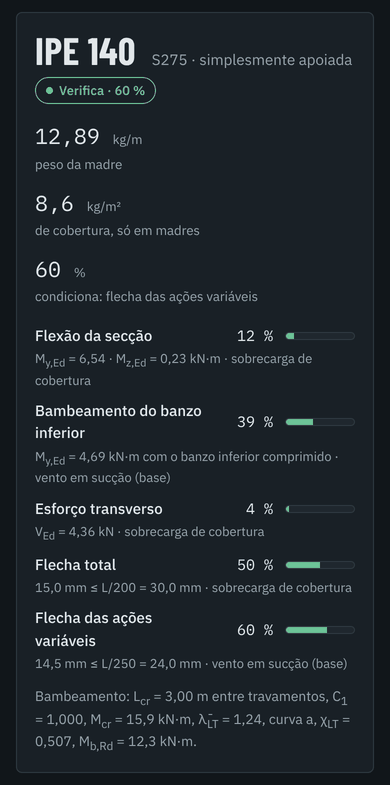
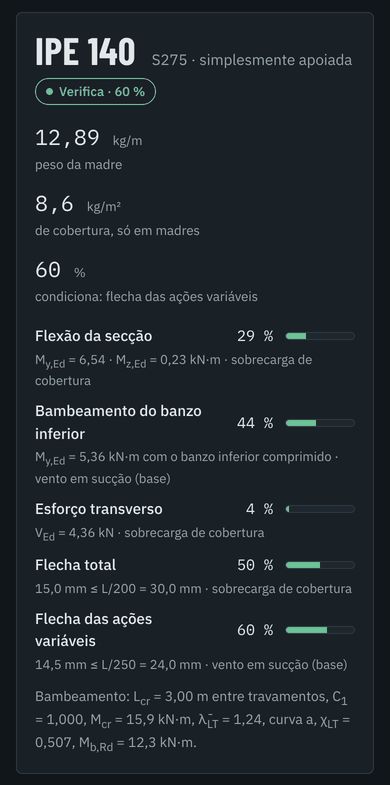
Madres: altura a meio vão em vez da inclinação
As duas alturas (no pilar e a meio vão) medem-se do pavimento à face
inferior da cobertura; a inclinação passa a ser calculada a partir delas
e z_e é a altura a meio vão. O corte mostra as madres por baixo da face
inferior do revestimento. Capturas do README atualizadas.

Claude-Session: https://claude.ai/code/session_01Rb9GC9iN3yz6VwPxYajBPZ

diff --git a/index.html b/index.html
@@ -428,11 +428,12 @@ h3.sub { margin-top: 18px; margin-bottom: 8px; }
             <span class="entrada"><input id="m-largura" name="largura" type="text" inputmode="decimal" min="1" step="0.1" value="20"><em>m</em></span></label>
           <label class="campo" for="m-comprimento"><span>Comprimento</span>
             <span class="entrada"><input id="m-comprimento" name="comprimento" type="text" inputmode="decimal" min="1" step="0.1" value="48"><em>m</em></span></label>
-          <label class="campo" for="m-beirado"><span>Altura do beirado</span>
-            <span class="entrada"><input id="m-beirado" name="beirado" type="text" inputmode="decimal" min="1" step="0.1" value="7"><em>m</em></span></label>
-          <label class="campo" for="m-alfa"><span>Inclinação</span>
-            <span class="entrada"><input id="m-alfa" name="alfa" type="text" inputmode="decimal" min="0" max="30" step="0.5" value="8"><em>°</em></span></label>
+          <label class="campo" for="m-beirado"><span>Altura no pilar</span>
+            <span class="entrada"><input id="m-beirado" name="beirado" type="text" inputmode="decimal" value="7"><em>m</em></span></label>
+          <label class="campo" for="m-meio"><span>Altura a meio vão</span>
+            <span class="entrada"><input id="m-meio" name="meio" type="text" inputmode="decimal" value="8.4"><em>m</em></span></label>
         </div>
+        <p class="nota" id="m-inclinacao"></p>
       </fieldset>
 
       <fieldset class="grupo">
@@ -515,7 +516,7 @@ h3.sub { margin-top: 18px; margin-bottom: 8px; }
       <label class="campo" for="m-aco" id="m-campo-aco"><span>Classe do aço (IPE)</span>
         <select id="m-aco" name="aco"></select></label>
 
-      <p class="nota nota-exemplo" id="m-nota-exemplo">Exemplo carregado: pavilhão de 20 × 48 m com painel sandwich.</p>
+      <p class="nota nota-exemplo" id="m-nota-exemplo">Exemplo carregado: pavilhão de 20 × 48 m, alturas de 7,0 m no pilar e 8,4 m a meio vão, com painel sandwich.</p>
     </form>
 
     <div class="resultado" id="resultado-madres" aria-live="polite"></div>
@@ -1705,7 +1706,7 @@ if (typeof module !== "undefined") module.exports = Madres;
 
   function ler() {
     return {
-      largura: num("largura"), comprimento: num("comprimento"), beirado: num("beirado"), alfa: num("alfa"),
+      largura: num("largura"), comprimento: num("comprimento"), beirado: num("beirado"), meio: num("meio"),
       L: num("vao"), s: num("espacamento"),
       tipo: form.elements.tipo.value,
       esquema: form.elements.esquema.value, tirantes: parseInt(form.elements.tirantes.value, 10),
@@ -1718,17 +1719,27 @@ if (typeof module !== "undefined") module.exports = Madres;
     };
   }
 
+  // Inclinação de cada água a partir das alturas no pilar e a meio vão (medidas do pavimento
+  // à face inferior da cobertura).
+  function inclinacao(d) {
+    if (!(d.largura > 0) || !(d.beirado > 0) || !(d.meio >= d.beirado)) return NaN;
+    return Math.atan((d.meio - d.beirado) / (d.largura / 2)) * 180 / Math.PI;
+  }
+
   function validar(d) {
     var erros = [];
     function pos(v, nome) { if (!(v > 0)) erros.push(nome + " tem de ser um número positivo."); }
-    pos(d.largura, "O vão do pórtico"); pos(d.comprimento, "O comprimento"); pos(d.beirado, "A altura do beirado");
+    pos(d.largura, "O vão do pórtico"); pos(d.comprimento, "O comprimento"); pos(d.beirado, "A altura no pilar");
+    pos(d.meio, "A altura a meio vão");
     pos(d.L, "O espaçamento entre pórticos"); pos(d.s, "O espaçamento entre madres");
     function entre(v, min, max, nome, un) { if (v > 0 && !(v >= min && v <= max)) erros.push(nome + " tem de estar entre " + fmt(min, min % 1 ? 1 : 0) + " e " + fmt(max, 0) + " " + un + "."); }
     entre(d.largura, 3, 100, "O vão do pórtico", "m"); entre(d.comprimento, 3, 500, "O comprimento", "m");
-    entre(d.beirado, 2, 40, "A altura do beirado", "m"); entre(d.L, 1, 20, "O espaçamento entre pórticos", "m");
+    entre(d.beirado, 2, 40, "A altura no pilar", "m"); entre(d.meio, 2, 60, "A altura a meio vão", "m");
+    entre(d.L, 1, 20, "O espaçamento entre pórticos", "m");
     entre(d.s, 0.3, 6, "O espaçamento entre madres", "m");
     if (d.L > 0 && d.comprimento > 0 && d.L > d.comprimento) erros.push("O espaçamento entre pórticos é maior do que o comprimento do pavilhão.");
-    if (!(d.alfa >= 0 && d.alfa <= 30)) erros.push("A inclinação tem de estar entre 0° e 30°.");
+    if (d.beirado > 0 && d.meio > 0 && d.meio < d.beirado) erros.push("A altura a meio vão não pode ser inferior à altura no pilar.");
+    if (d.alfa > 30) erros.push("A inclinação resultante (" + fmt(d.alfa, 1) + "°) é superior a 30°, o limite desta verificação.");
     if (!(d.gRev >= 0) || !(d.gInst >= 0) || !(d.qk >= 0)) erros.push("As cargas têm de ser números iguais ou superiores a zero.");
     if (!(d.altitude >= 0 && d.altitude <= 1500)) erros.push("A altitude tem de estar entre 0 e 1500 m (limite da NP EN 1991-1-3).");
     if (d.largura > 0 && d.s > d.largura / 2) erros.push("O espaçamento entre madres é maior do que a meia largura do pavilhão.");
@@ -1738,7 +1749,7 @@ if (typeof module !== "undefined") module.exports = Madres;
 
   function calcular(d) {
     var a = d.alfa * Math.PI / 180;
-    var hCumeeira = d.beirado + d.largura / 2 * Math.tan(a);
+    var hCumeeira = d.meio;
     var zonaVento = d.costa || d.orografia || d.altitude > 600 ? "B" : "A";
     var area = d.s * d.L;
     var vento = Acoes.vento(zonaVento, d.terreno, hCumeeira, d.alfa, d.posicao, area, [d.cpiMax, d.cpiMin]);
@@ -1840,14 +1851,15 @@ if (typeof module !== "undefined") module.exports = Madres;
     madres.forEach(function (m, i) {
       [[m * Math.cos(a), hb + m * Math.sin(a)], [W - m * Math.cos(a), hb + m * Math.sin(a)]].forEach(function (pt, lado2) {
         var ativa = lado2 === 0 && i === iMadre;
-        g += '<rect class="' + (ativa ? "esq-madre-sec-ativa" : "esq-madre-sec") + '" x="' + (pt[0] - lado) + '" y="' + (Y(pt[1]) - 2 * lado) + '" width="' + 2 * lado + '" height="' + 2 * lado + '"/>';
+        // A linha da cobertura é a face inferior do revestimento: as madres ficam por baixo dela.
+        g += '<rect class="' + (ativa ? "esq-madre-sec-ativa" : "esq-madre-sec") + '" x="' + (pt[0] - lado) + '" y="' + Y(pt[1]) + '" width="' + 2 * lado + '" height="' + 2 * lado + '"/>';
       });
     });
     // Cargas na madre analisada: gravidade para baixo, sucção para cima.
     var mx = madres[iMadre] * Math.cos(a), my = hb + madres[iMadre] * Math.sin(a);
     var comp = Math.max(hc * 0.22, fs * 2.5), cab = fs * 0.5;
-    g += seta(mx - fs * 0.6, Y(my) - comp - 2 * lado, mx - fs * 0.6, Y(my) - 2.4 * lado, cab, "esq-seta-g");
-    g += seta(mx + fs * 0.6, Y(my) - 2.4 * lado, mx + fs * 0.6, Y(my) - comp - 2 * lado, cab, "esq-seta-w");
+    g += seta(mx - fs * 0.6, Y(my) - comp - 2 * lado, mx - fs * 0.6, Y(my) - 0.4 * lado, cab, "esq-seta-g");
+    g += seta(mx + fs * 0.6, Y(my) - 0.4 * lado, mx + fs * 0.6, Y(my) - comp - 2 * lado, cab, "esq-seta-w");
     g += texto(mx - fs * 1.0, Y(my) - comp - 2 * lado - fs * 0.3, fs * 0.85, "G, Q, S", ' text-anchor="end"');
     g += texto(mx + fs * 1.0, Y(my) - comp - 2 * lado - fs * 0.3, fs * 0.85, "W sucção", "");
     // Cotas
@@ -1947,7 +1959,7 @@ if (typeof module !== "undefined") module.exports = Madres;
   function cartaoEsquicos(r) {
     return '<section class="cartao"><h2>Esquiços</h2><div class="esquicos">' +
       '<figure class="esquico">' + esquicoPlanta(r) + "<figcaption>Planta da cobertura: a faixa a cor é a área que descarrega na madre analisada (L × s).</figcaption></figure>" +
-      '<figure class="esquico">' + esquicoCorte(r) + "<figcaption>Corte transversal: a gravidade comprime o banzo superior, travado pelo revestimento" +
+      '<figure class="esquico">' + esquicoCorte(r) + "<figcaption>Corte transversal, com as alturas no pilar e a meio vão medidas do pavimento. A gravidade comprime o banzo superior, travado pelo revestimento" +
         (r.d.esquema === "simples" ? "" : ", e também o banzo inferior sobre os apoios, por a madre ser contínua") +
         "; a sucção do vento comprime o banzo inferior, livre entre tirantes.</figcaption></figure>" +
       "</div></section>";
@@ -2042,6 +2054,7 @@ if (typeof module !== "undefined") module.exports = Madres;
       (d.tipo !== "IPE" && d.esquema !== "simples" ? "<li>Sobreposição sobre os apoios de pelo menos " + (d.esquema === "continua2" ? "0,10 L" : "0,05 L") + " para cada lado. Com sobreposições menores, a secção simples no fim da sobreposição tem de ser verificada à parte.</li>" : "") +
       "<li>Vento: c<sub>pe</sub> dos Quadros 7.2 e 7.4 da NP EN 1991-1-4 para as zonas " + Acoes.POSICOES[d.posicao].zonas.join(", ") +
         ", interpolados para A = s × L. c<sub>pi</sub> = " + fmt(d.cpiMax, 2) + " e " + fmt(d.cpiMin, 2) + ". Os valores +0,2 e −0,3 só valem sem face dominante (7.2.9(6)): com portões grandes que possam ficar abertos, c<sub>pi</sub> calcula-se pela 7.2.9(5). c<sub>s</sub>c<sub>d</sub> = 1, c<sub>0</sub> = 1.</li>" +
+      "<li>Alturas medidas do pavimento à face inferior da cobertura. z<sub>e</sub> = altura a meio vão; a diferença para o topo da cobertura (espessura do revestimento) altera q<sub>p</sub> em menos de 0,5 %.</li>" +
       "<li>Neve sem acumulações junto a platibandas, desníveis ou edifícios contíguos.</li>" +
       (r.hCumeeira > 15 ? "<li><b>A altura do pavilhão (" + fmt(r.hCumeeira, 1) + " m) é superior a 15 m:</b> o valor c<sub>s</sub>c<sub>d</sub> = 1 deixa de estar garantido pela NP EN 1991-1-4, 6.2(1)a e tem de ser justificado.</li>" : "") +
       "<li>Os coeficientes de pressão exterior foram conferidos com os Quadros 7.2, 7.4a e 7.4b da NP EN 1991-1-4. Os restantes valores dos Anexos Nacionais foram confirmados em fontes secundárias.</li>" +
@@ -2050,6 +2063,10 @@ if (typeof module !== "undefined") module.exports = Madres;
 
   function render() {
     var d = ler();
+    d.alfa = inclinacao(d);
+    $("m-inclinacao").innerHTML = (isFinite(d.alfa)
+      ? "Inclinação calculada: <b>α = " + fmt(d.alfa, 1) + "°</b> (" + fmt(Math.tan(d.alfa * Math.PI / 180) * 100, 1) + " %). "
+      : "") + "Alturas medidas do pavimento à face inferior da cobertura.";
     $("m-campo-aco").hidden = d.tipo !== "IPE";
     var erros = validar(d);
     var zona = d.costa || d.orografia || d.altitude > 600 ? "B" : "A";

diff --git a/src/js/vista-madres.js b/src/js/vista-madres.js
@@ -29,7 +29,7 @@
 
   function ler() {
     return {
-      largura: num("largura"), comprimento: num("comprimento"), beirado: num("beirado"), alfa: num("alfa"),
+      largura: num("largura"), comprimento: num("comprimento"), beirado: num("beirado"), meio: num("meio"),
       L: num("vao"), s: num("espacamento"),
       tipo: form.elements.tipo.value,
       esquema: form.elements.esquema.value, tirantes: parseInt(form.elements.tirantes.value, 10),
@@ -42,17 +42,27 @@
     };
   }
 
+  // Inclinação de cada água a partir das alturas no pilar e a meio vão (medidas do pavimento
+  // à face inferior da cobertura).
+  function inclinacao(d) {
+    if (!(d.largura > 0) || !(d.beirado > 0) || !(d.meio >= d.beirado)) return NaN;
+    return Math.atan((d.meio - d.beirado) / (d.largura / 2)) * 180 / Math.PI;
+  }
+
   function validar(d) {
     var erros = [];
     function pos(v, nome) { if (!(v > 0)) erros.push(nome + " tem de ser um número positivo."); }
-    pos(d.largura, "O vão do pórtico"); pos(d.comprimento, "O comprimento"); pos(d.beirado, "A altura do beirado");
+    pos(d.largura, "O vão do pórtico"); pos(d.comprimento, "O comprimento"); pos(d.beirado, "A altura no pilar");
+    pos(d.meio, "A altura a meio vão");
     pos(d.L, "O espaçamento entre pórticos"); pos(d.s, "O espaçamento entre madres");
     function entre(v, min, max, nome, un) { if (v > 0 && !(v >= min && v <= max)) erros.push(nome + " tem de estar entre " + fmt(min, min % 1 ? 1 : 0) + " e " + fmt(max, 0) + " " + un + "."); }
     entre(d.largura, 3, 100, "O vão do pórtico", "m"); entre(d.comprimento, 3, 500, "O comprimento", "m");
-    entre(d.beirado, 2, 40, "A altura do beirado", "m"); entre(d.L, 1, 20, "O espaçamento entre pórticos", "m");
+    entre(d.beirado, 2, 40, "A altura no pilar", "m"); entre(d.meio, 2, 60, "A altura a meio vão", "m");
+    entre(d.L, 1, 20, "O espaçamento entre pórticos", "m");
     entre(d.s, 0.3, 6, "O espaçamento entre madres", "m");
     if (d.L > 0 && d.comprimento > 0 && d.L > d.comprimento) erros.push("O espaçamento entre pórticos é maior do que o comprimento do pavilhão.");
-    if (!(d.alfa >= 0 && d.alfa <= 30)) erros.push("A inclinação tem de estar entre 0° e 30°.");
+    if (d.beirado > 0 && d.meio > 0 && d.meio < d.beirado) erros.push("A altura a meio vão não pode ser inferior à altura no pilar.");
+    if (d.alfa > 30) erros.push("A inclinação resultante (" + fmt(d.alfa, 1) + "°) é superior a 30°, o limite desta verificação.");
     if (!(d.gRev >= 0) || !(d.gInst >= 0) || !(d.qk >= 0)) erros.push("As cargas têm de ser números iguais ou superiores a zero.");
     if (!(d.altitude >= 0 && d.altitude <= 1500)) erros.push("A altitude tem de estar entre 0 e 1500 m (limite da NP EN 1991-1-3).");
     if (d.largura > 0 && d.s > d.largura / 2) erros.push("O espaçamento entre madres é maior do que a meia largura do pavilhão.");
@@ -62,7 +72,7 @@
 
   function calcular(d) {
     var a = d.alfa * Math.PI / 180;
-    var hCumeeira = d.beirado + d.largura / 2 * Math.tan(a);
+    var hCumeeira = d.meio;
     var zonaVento = d.costa || d.orografia || d.altitude > 600 ? "B" : "A";
     var area = d.s * d.L;
     var vento = Acoes.vento(zonaVento, d.terreno, hCumeeira, d.alfa, d.posicao, area, [d.cpiMax, d.cpiMin]);
@@ -164,14 +174,15 @@
     madres.forEach(function (m, i) {
       [[m * Math.cos(a), hb + m * Math.sin(a)], [W - m * Math.cos(a), hb + m * Math.sin(a)]].forEach(function (pt, lado2) {
         var ativa = lado2 === 0 && i === iMadre;
-        g += '<rect class="' + (ativa ? "esq-madre-sec-ativa" : "esq-madre-sec") + '" x="' + (pt[0] - lado) + '" y="' + (Y(pt[1]) - 2 * lado) + '" width="' + 2 * lado + '" height="' + 2 * lado + '"/>';
+        // A linha da cobertura é a face inferior do revestimento: as madres ficam por baixo dela.
+        g += '<rect class="' + (ativa ? "esq-madre-sec-ativa" : "esq-madre-sec") + '" x="' + (pt[0] - lado) + '" y="' + Y(pt[1]) + '" width="' + 2 * lado + '" height="' + 2 * lado + '"/>';
       });
     });
     // Cargas na madre analisada: gravidade para baixo, sucção para cima.
     var mx = madres[iMadre] * Math.cos(a), my = hb + madres[iMadre] * Math.sin(a);
     var comp = Math.max(hc * 0.22, fs * 2.5), cab = fs * 0.5;
-    g += seta(mx - fs * 0.6, Y(my) - comp - 2 * lado, mx - fs * 0.6, Y(my) - 2.4 * lado, cab, "esq-seta-g");
-    g += seta(mx + fs * 0.6, Y(my) - 2.4 * lado, mx + fs * 0.6, Y(my) - comp - 2 * lado, cab, "esq-seta-w");
+    g += seta(mx - fs * 0.6, Y(my) - comp - 2 * lado, mx - fs * 0.6, Y(my) - 0.4 * lado, cab, "esq-seta-g");
+    g += seta(mx + fs * 0.6, Y(my) - 0.4 * lado, mx + fs * 0.6, Y(my) - comp - 2 * lado, cab, "esq-seta-w");
     g += texto(mx - fs * 1.0, Y(my) - comp - 2 * lado - fs * 0.3, fs * 0.85, "G, Q, S", ' text-anchor="end"');
     g += texto(mx + fs * 1.0, Y(my) - comp - 2 * lado - fs * 0.3, fs * 0.85, "W sucção", "");
     // Cotas
@@ -271,7 +282,7 @@
   function cartaoEsquicos(r) {
     return '<section class="cartao"><h2>Esquiços</h2><div class="esquicos">' +
       '<figure class="esquico">' + esquicoPlanta(r) + "<figcaption>Planta da cobertura: a faixa a cor é a área que descarrega na madre analisada (L × s).</figcaption></figure>" +
-      '<figure class="esquico">' + esquicoCorte(r) + "<figcaption>Corte transversal: a gravidade comprime o banzo superior, travado pelo revestimento" +
+      '<figure class="esquico">' + esquicoCorte(r) + "<figcaption>Corte transversal, com as alturas no pilar e a meio vão medidas do pavimento. A gravidade comprime o banzo superior, travado pelo revestimento" +
         (r.d.esquema === "simples" ? "" : ", e também o banzo inferior sobre os apoios, por a madre ser contínua") +
         "; a sucção do vento comprime o banzo inferior, livre entre tirantes.</figcaption></figure>" +
       "</div></section>";
@@ -366,6 +377,7 @@
       (d.tipo !== "IPE" && d.esquema !== "simples" ? "<li>Sobreposição sobre os apoios de pelo menos " + (d.esquema === "continua2" ? "0,10 L" : "0,05 L") + " para cada lado. Com sobreposições menores, a secção simples no fim da sobreposição tem de ser verificada à parte.</li>" : "") +
       "<li>Vento: c<sub>pe</sub> dos Quadros 7.2 e 7.4 da NP EN 1991-1-4 para as zonas " + Acoes.POSICOES[d.posicao].zonas.join(", ") +
         ", interpolados para A = s × L. c<sub>pi</sub> = " + fmt(d.cpiMax, 2) + " e " + fmt(d.cpiMin, 2) + ". Os valores +0,2 e −0,3 só valem sem face dominante (7.2.9(6)): com portões grandes que possam ficar abertos, c<sub>pi</sub> calcula-se pela 7.2.9(5). c<sub>s</sub>c<sub>d</sub> = 1, c<sub>0</sub> = 1.</li>" +
+      "<li>Alturas medidas do pavimento à face inferior da cobertura. z<sub>e</sub> = altura a meio vão; a diferença para o topo da cobertura (espessura do revestimento) altera q<sub>p</sub> em menos de 0,5 %.</li>" +
       "<li>Neve sem acumulações junto a platibandas, desníveis ou edifícios contíguos.</li>" +
       (r.hCumeeira > 15 ? "<li><b>A altura do pavilhão (" + fmt(r.hCumeeira, 1) + " m) é superior a 15 m:</b> o valor c<sub>s</sub>c<sub>d</sub> = 1 deixa de estar garantido pela NP EN 1991-1-4, 6.2(1)a e tem de ser justificado.</li>" : "") +
       "<li>Os coeficientes de pressão exterior foram conferidos com os Quadros 7.2, 7.4a e 7.4b da NP EN 1991-1-4. Os restantes valores dos Anexos Nacionais foram confirmados em fontes secundárias.</li>" +
@@ -374,6 +386,10 @@
 
   function render() {
     var d = ler();
+    d.alfa = inclinacao(d);
+    $("m-inclinacao").innerHTML = (isFinite(d.alfa)
+      ? "Inclinação calculada: <b>α = " + fmt(d.alfa, 1) + "°</b> (" + fmt(Math.tan(d.alfa * Math.PI / 180) * 100, 1) + " %). "
+      : "") + "Alturas medidas do pavimento à face inferior da cobertura.";
     $("m-campo-aco").hidden = d.tipo !== "IPE";
     var erros = validar(d);
     var zona = d.costa || d.orografia || d.altitude > 600 ? "B" : "A";

diff --git a/src/index.html b/src/index.html
@@ -85,11 +85,12 @@
             <span class="entrada"><input id="m-largura" name="largura" type="text" inputmode="decimal" min="1" step="0.1" value="20"><em>m</em></span></label>
           <label class="campo" for="m-comprimento"><span>Comprimento</span>
             <span class="entrada"><input id="m-comprimento" name="comprimento" type="text" inputmode="decimal" min="1" step="0.1" value="48"><em>m</em></span></label>
-          <label class="campo" for="m-beirado"><span>Altura do beirado</span>
-            <span class="entrada"><input id="m-beirado" name="beirado" type="text" inputmode="decimal" min="1" step="0.1" value="7"><em>m</em></span></label>
-          <label class="campo" for="m-alfa"><span>Inclinação</span>
-            <span class="entrada"><input id="m-alfa" name="alfa" type="text" inputmode="decimal" min="0" max="30" step="0.5" value="8"><em>°</em></span></label>
+          <label class="campo" for="m-beirado"><span>Altura no pilar</span>
+            <span class="entrada"><input id="m-beirado" name="beirado" type="text" inputmode="decimal" value="7"><em>m</em></span></label>
+          <label class="campo" for="m-meio"><span>Altura a meio vão</span>
+            <span class="entrada"><input id="m-meio" name="meio" type="text" inputmode="decimal" value="8.4"><em>m</em></span></label>
         </div>
+        <p class="nota" id="m-inclinacao"></p>
       </fieldset>
 
       <fieldset class="grupo">
@@ -172,7 +173,7 @@
       <label class="campo" for="m-aco" id="m-campo-aco"><span>Classe do aço (IPE)</span>
         <select id="m-aco" name="aco"></select></label>
 
-      <p class="nota nota-exemplo" id="m-nota-exemplo">Exemplo carregado: pavilhão de 20 × 48 m com painel sandwich.</p>
+      <p class="nota nota-exemplo" id="m-nota-exemplo">Exemplo carregado: pavilhão de 20 × 48 m, alturas de 7,0 m no pilar e 8,4 m a meio vão, com painel sandwich.</p>
     </form>
 
     <div class="resultado" id="resultado-madres" aria-live="polite"></div>
